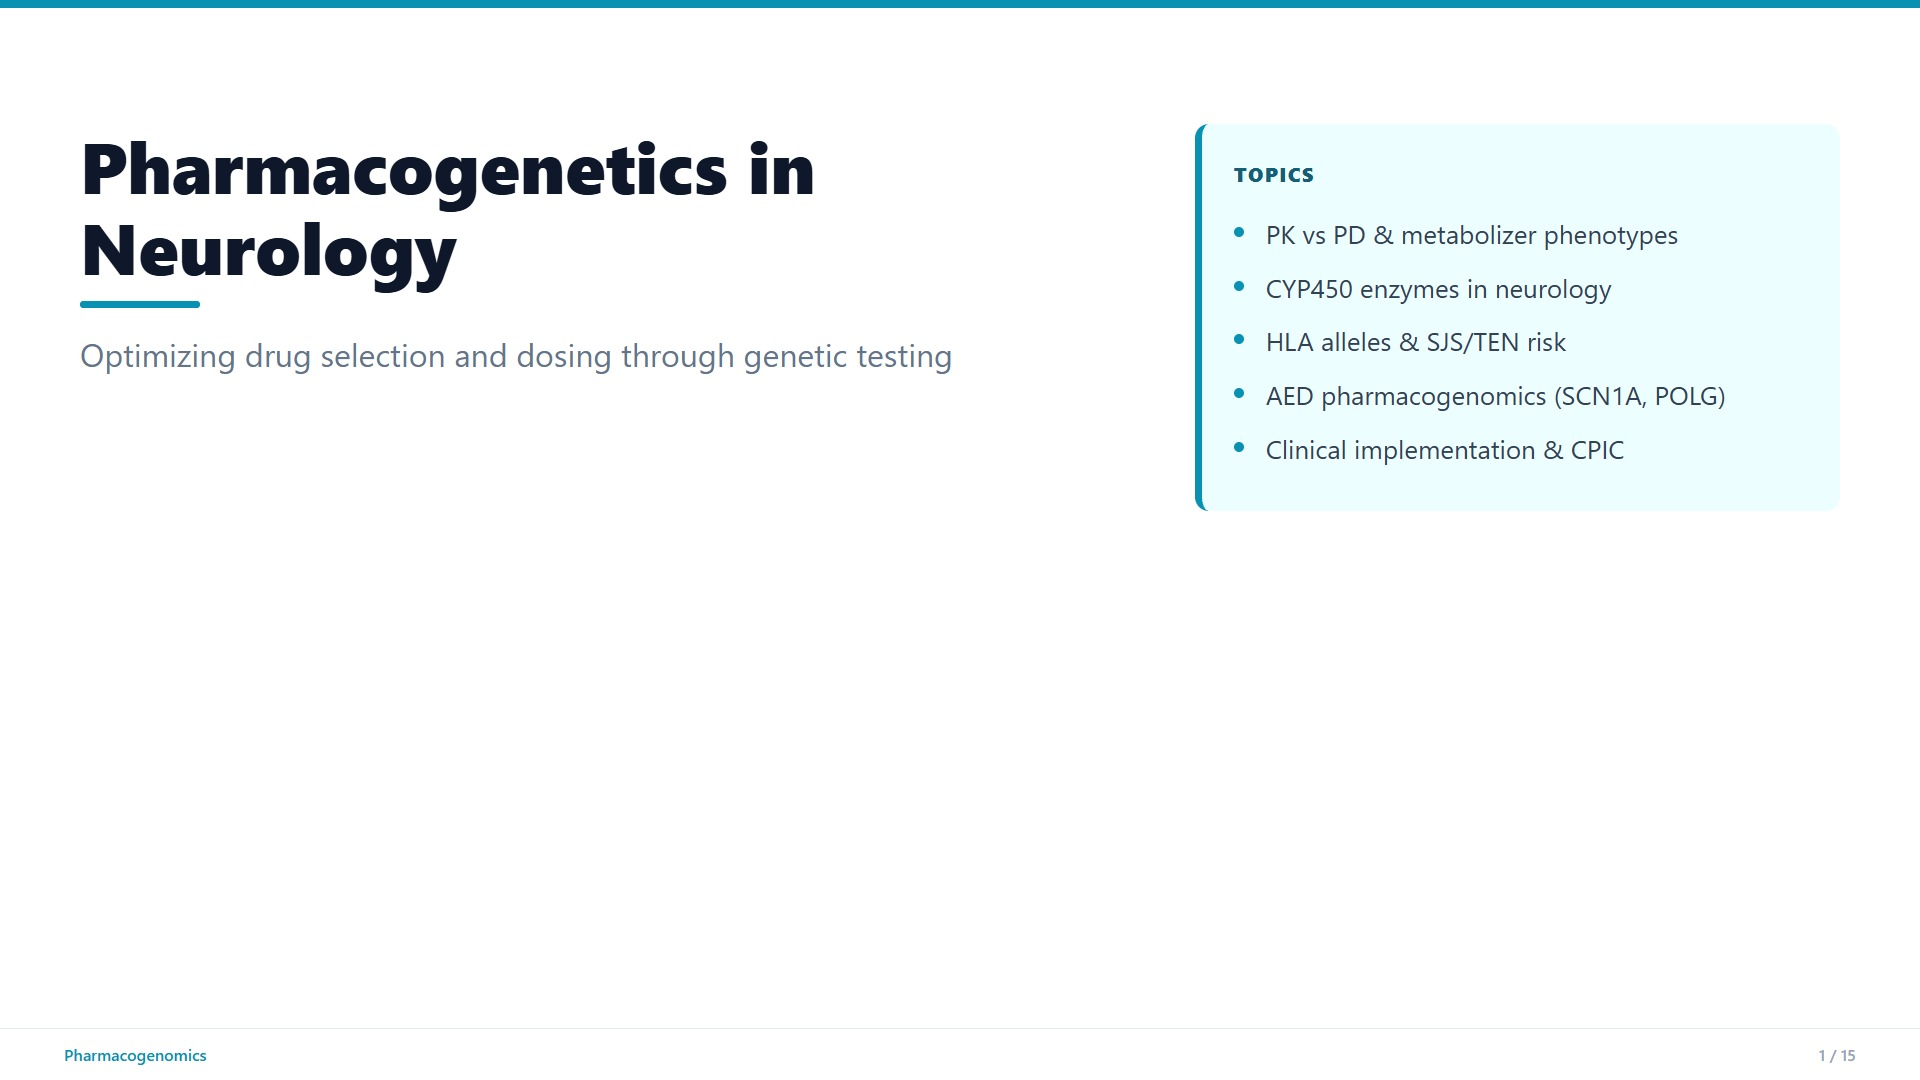
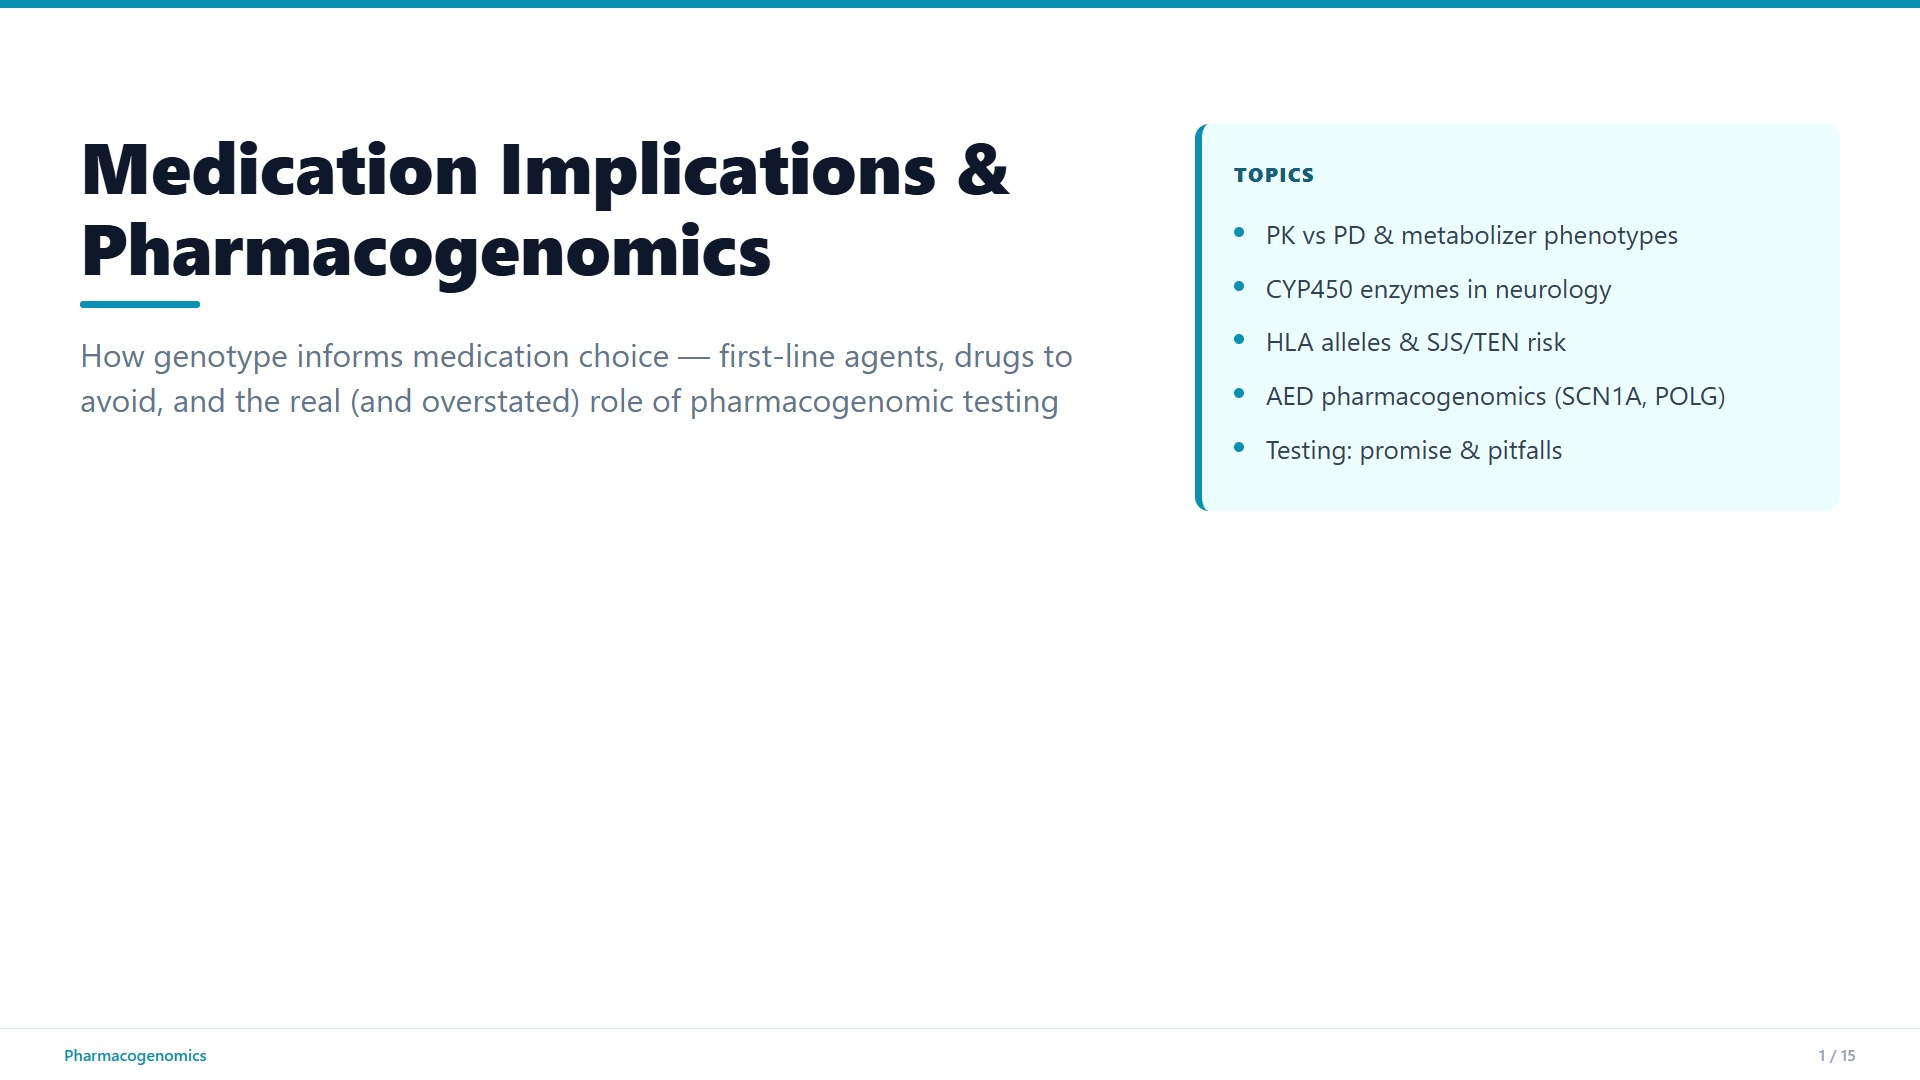
content(pharmacogenetics): retitle to Medication Implications & Pharmacogenomics; temper PGx-testing framing

Changed region(s): [[0.0312, 0.1222, 0.5312, 0.275], [0.0312, 0.3056, 0.5625, 0.3972], [0.6562, 0.3972, 0.8438, 0.4278]]

diff --git a/docs/curriculum-coverage.md b/docs/curriculum-coverage.md
@@ -127,7 +127,7 @@
 - ✅ `pharmacogenetics` — CYP450 Enzymes Most Relevant to Neurology
 - ✅ `pharmacogenetics` — HLA Alleles and Serious Drug Hypersensitivity in Neurology
 - ✅ `pharmacogenetics` — Antiepileptic Drug Pharmacogenomics
-- ✅ `pharmacogenetics` — Clinical Implementation of Pharmacogenetic Testing
+- ✅ `pharmacogenetics` — Pharmacogenetic Testing: Promise and Pitfalls
 - ✅ `therapies` — Categories of Gene and Molecular Therapy
 - ✅ `therapies` — AAV Vector Biology and CNS Delivery
 - ✅ `therapies` — Approved Neurological Gene Therapies
